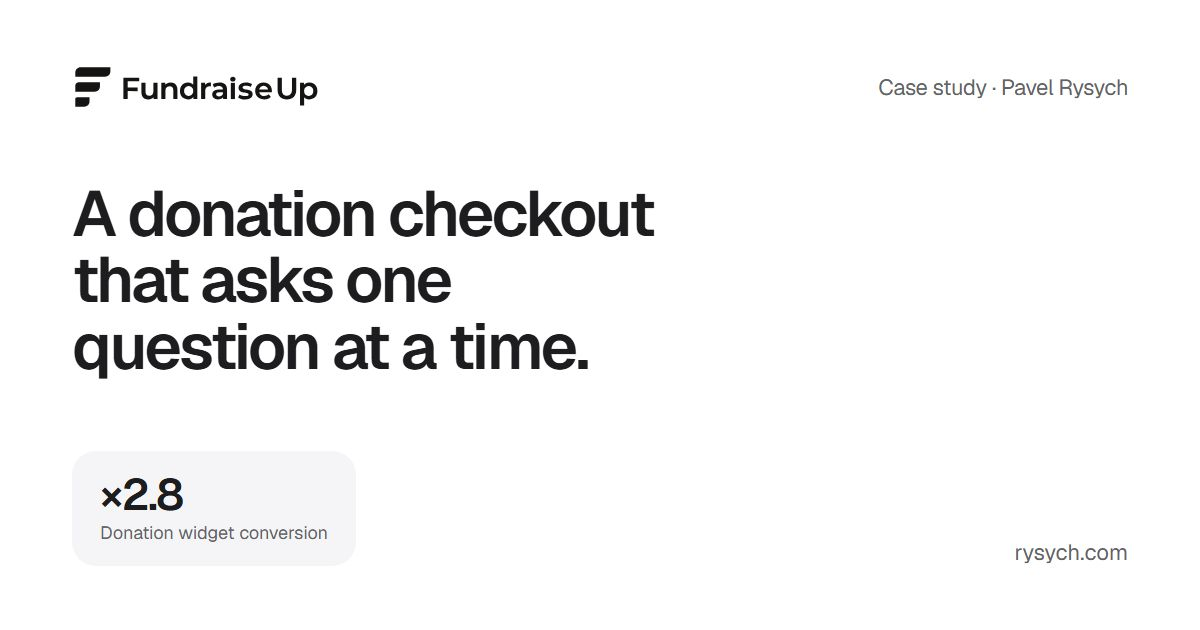
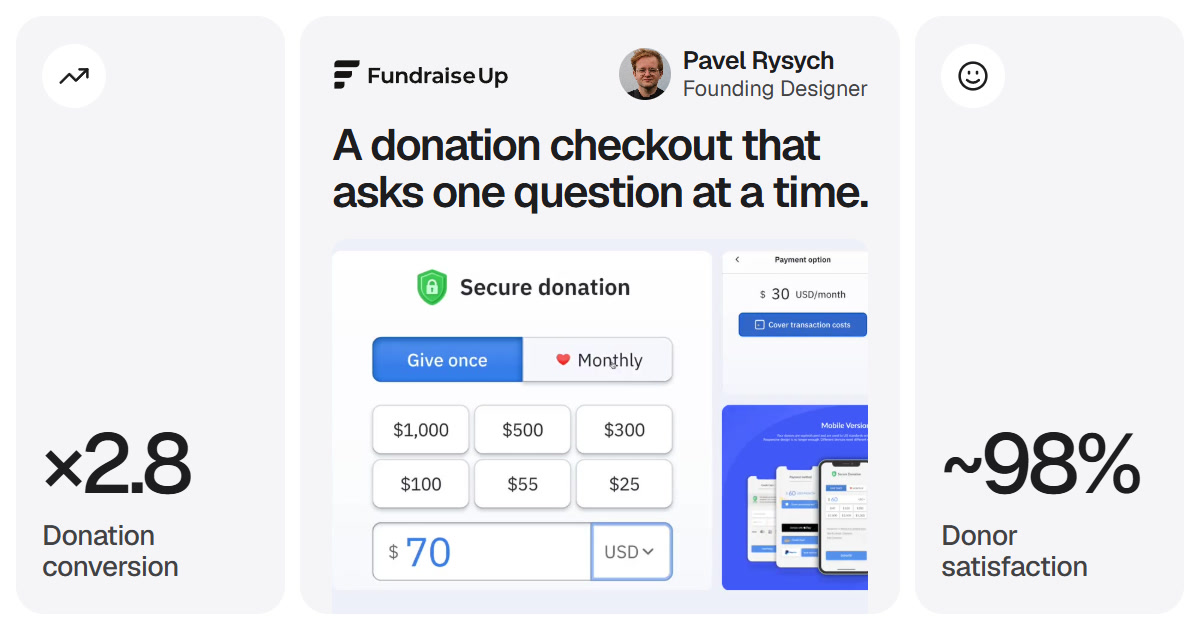
Link previews show the product, its numbers and who designed it
New 1200x630 share cards: each case puts its product screen in the
centre, two outcome figures with icons either side, the logo and
Pavel's name and role; the home card keeps the hillside portrait.
Share images move to ?v=2 so messengers fetch them again, gain
og:image:secure_url and alt texts that match the cards. The home
description carries two outcomes, dateModified and sitemap lastmod
move to today.

diff --git a/index.html b/index.html
@@ -5,7 +5,7 @@
     <meta name="viewport" content="width=device-width, initial-scale=1">
     <meta name="theme-color" content="#ffffff">
     <meta name="author" content="Pavel Rysych">
-    <meta name="description" content="Pavel Rysych, Product Design Leader and Head of Design, builds products and the design teams behind them. Case studies: Admirals, Subskim, MetaMap and more.">
+    <meta name="description" content="Pavel Rysych, Product Design Leader and Head of Design, builds products and the design teams behind them. Admirals: −67% CAC. Fundraise Up: 2.8× conversion.">
     <meta name="robots" content="index, follow, max-image-preview:large">
     <title>Pavel Rysych — Product Design Leader &amp; Head of Design</title>
     <link rel="canonical" href="https://www.rysych.com/">
@@ -23,19 +23,20 @@
     <meta property="og:locale" content="en_US">
     <meta property="og:site_name" content="Pavel Rysych">
     <meta property="og:title" content="Pavel Rysych — Product Design Leader &amp; Head of Design">
-    <meta property="og:description" content="Pavel Rysych, Product Design Leader and Head of Design, builds products and the design teams behind them. Case studies: Admirals, Subskim, MetaMap and more.">
+    <meta property="og:description" content="Pavel Rysych, Product Design Leader and Head of Design, builds products and the design teams behind them. Admirals: −67% CAC. Fundraise Up: 2.8× conversion.">
     <meta property="og:url" content="https://www.rysych.com/">
-    <meta property="og:image" content="https://www.rysych.com/assets/og/home.jpg">
+    <meta property="og:image" content="https://www.rysych.com/assets/og/home.jpg?v=2">
+    <meta property="og:image:secure_url" content="https://www.rysych.com/assets/og/home.jpg?v=2">
     <meta property="og:image:type" content="image/jpeg">
     <meta property="og:image:width" content="1200">
     <meta property="og:image:height" content="630">
-    <meta property="og:image:alt" content="Pavel Rysych, Product Design Leader: I build products and the design teams behind them.">
+    <meta property="og:image:alt" content="Pavel Rysych, Product Design Leader and Head of Design: I build products and the design teams behind them.">
     <meta name="twitter:card" content="summary_large_image">
     <meta name="twitter:title" content="Pavel Rysych — Product Design Leader &amp; Head of Design">
-    <meta name="twitter:description" content="Pavel Rysych, Product Design Leader and Head of Design, builds products and the design teams behind them. Case studies: Admirals, Subskim, MetaMap and more.">
-    <meta name="twitter:image" content="https://www.rysych.com/assets/og/home.jpg">
-    <meta name="twitter:image:alt" content="Pavel Rysych, Product Design Leader: I build products and the design teams behind them.">
-    <script type="application/ld+json">{"@context":"https://schema.org","@graph":[{"@type":"WebSite","@id":"https://www.rysych.com/#website","url":"https://www.rysych.com/","name":"Pavel Rysych","alternateName":["Rysych","rysych.com"],"description":"Portfolio of Pavel Rysych, Product Design Leader and Head of Design.","inLanguage":"en","publisher":{"@id":"https://www.rysych.com/#person"}},{"@type":"ProfilePage","@id":"https://www.rysych.com/","url":"https://www.rysych.com/","name":"Pavel Rysych — Product Design Leader & Head of Design","description":"Pavel Rysych, Product Design Leader and Head of Design, builds products and the design teams behind them. Case studies: Admirals, Subskim, MetaMap and more.","inLanguage":"en","isPartOf":{"@id":"https://www.rysych.com/#website"},"mainEntity":{"@id":"https://www.rysych.com/#person"},"primaryImageOfPage":{"@id":"https://www.rysych.com/#portrait"},"dateCreated":"2026-05-05T17:44:40+04:00","dateModified":"2026-10-04T18:00:00+04:00"},{"@type":"Person","@id":"https://www.rysych.com/#person","name":"Pavel Rysych","url":"https://www.rysych.com/","jobTitle":"Head of Design","sameAs":["https://www.linkedin.com/in/rysych/","https://www.instagram.com/pavel_rysych/","https://www.threads.com/@pavel_rysych"],"image":{"@id":"https://www.rysych.com/#portrait"},"worksFor":{"@id":"https://www.rysych.com/#org-admirals"},"description":"Product Design Leader and Head of Design. Leads product design, builds design teams and brings AI into everyday product work.","email":"mailto:rysych@gmail.com","knowsAbout":["Product design","Design leadership","Design systems","Prototyping","AI-assisted design and implementation","Product and growth","Customer journeys","Onboarding","Identity verification","Donation experience"]},{"@type":"ImageObject","@id":"https://www.rysych.com/#portrait","url":"https://www.rysych.com/assets/hero-hills-2000.jpg","contentUrl":"https://www.rysych.com/assets/hero-hills-2000.jpg","width":2000,"height":1333,"caption":"Pavel Rysych"},{"@type":"Organization","@id":"https://www.rysych.com/#org-admirals","name":"Admirals","url":"https://admiralmarkets.com/","logo":{"@type":"ImageObject","url":"https://www.rysych.com/assets/admirals-logo-dark.svg"}}]}</script>
+    <meta name="twitter:description" content="Pavel Rysych, Product Design Leader and Head of Design, builds products and the design teams behind them. Admirals: −67% CAC. Fundraise Up: 2.8× conversion.">
+    <meta name="twitter:image" content="https://www.rysych.com/assets/og/home.jpg?v=2">
+    <meta name="twitter:image:alt" content="Pavel Rysych, Product Design Leader and Head of Design: I build products and the design teams behind them.">
+    <script type="application/ld+json">{"@context":"https://schema.org","@graph":[{"@type":"WebSite","@id":"https://www.rysych.com/#website","url":"https://www.rysych.com/","name":"Pavel Rysych","alternateName":["Rysych","rysych.com"],"description":"Portfolio of Pavel Rysych, Product Design Leader and Head of Design.","inLanguage":"en","publisher":{"@id":"https://www.rysych.com/#person"}},{"@type":"ProfilePage","@id":"https://www.rysych.com/","url":"https://www.rysych.com/","name":"Pavel Rysych — Product Design Leader & Head of Design","description":"Pavel Rysych, Product Design Leader and Head of Design, builds products and the design teams behind them. Admirals: −67% CAC. Fundraise Up: 2.8× conversion.","inLanguage":"en","isPartOf":{"@id":"https://www.rysych.com/#website"},"mainEntity":{"@id":"https://www.rysych.com/#person"},"primaryImageOfPage":{"@id":"https://www.rysych.com/#portrait"},"dateCreated":"2026-05-05T17:44:40+04:00","dateModified":"2026-10-04T23:30:00+04:00"},{"@type":"Person","@id":"https://www.rysych.com/#person","name":"Pavel Rysych","url":"https://www.rysych.com/","jobTitle":"Head of Design","sameAs":["https://www.linkedin.com/in/rysych/","https://www.instagram.com/pavel_rysych/","https://www.threads.com/@pavel_rysych"],"image":{"@id":"https://www.rysych.com/#portrait"},"worksFor":{"@id":"https://www.rysych.com/#org-admirals"},"description":"Product Design Leader and Head of Design. Leads product design, builds design teams and brings AI into everyday product work.","email":"mailto:rysych@gmail.com","knowsAbout":["Product design","Design leadership","Design systems","Prototyping","AI-assisted design and implementation","Product and growth","Customer journeys","Onboarding","Identity verification","Donation experience"]},{"@type":"ImageObject","@id":"https://www.rysych.com/#portrait","url":"https://www.rysych.com/assets/hero-hills-2000.jpg","contentUrl":"https://www.rysych.com/assets/hero-hills-2000.jpg","width":2000,"height":1333,"caption":"Pavel Rysych"},{"@type":"Organization","@id":"https://www.rysych.com/#org-admirals","name":"Admirals","url":"https://admiralmarkets.com/","logo":{"@type":"ImageObject","url":"https://www.rysych.com/assets/admirals-logo-dark.svg"}}]}</script>
   </head>
   <body class="home">
     <a class="skip-link" href="#main">Skip to content</a>

diff --git a/work/mechanism/index.html b/work/mechanism/index.html
@@ -23,19 +23,20 @@
     <meta property="og:title" content="Mechanism Ventures case study: product design — Pavel Rysych">
     <meta property="og:description" content="Pavel Rysych, Head of Product Design at Mechanism Ventures (2021–2023): MVPs and onboarding for Pettable, Learner and more. +28% onboarding, −18% churn.">
     <meta property="og:url" content="https://www.rysych.com/work/mechanism/">
-    <meta property="og:image" content="https://www.rysych.com/assets/og/mechanism.jpg">
+    <meta property="og:image" content="https://www.rysych.com/assets/og/mechanism.jpg?v=2">
+    <meta property="og:image:secure_url" content="https://www.rysych.com/assets/og/mechanism.jpg?v=2">
     <meta property="og:image:type" content="image/jpeg">
     <meta property="og:image:width" content="1200">
     <meta property="og:image:height" content="630">
-    <meta property="og:image:alt" content="Mechanism Ventures case study by Pavel Rysych: four ventures, one job — make the customer’s next decision obvious.">
+    <meta property="og:image:alt" content="Mechanism Ventures case study by Pavel Rysych, Head of Product Design: making the customer’s next decision obvious. +28% onboarding conversion at Pettable, −18% user churn.">
     <meta property="article:published_time" content="2026-09-27T21:44:37+04:00">
     <meta property="article:author" content="https://www.rysych.com/">
     <meta name="twitter:card" content="summary_large_image">
     <meta name="twitter:title" content="Mechanism Ventures case study: product design — Pavel Rysych">
     <meta name="twitter:description" content="Pavel Rysych, Head of Product Design at Mechanism Ventures (2021–2023): MVPs and onboarding for Pettable, Learner and more. +28% onboarding, −18% churn.">
-    <meta name="twitter:image" content="https://www.rysych.com/assets/og/mechanism.jpg">
-    <meta name="twitter:image:alt" content="Mechanism Ventures case study by Pavel Rysych: four ventures, one job — make the customer’s next decision obvious.">
-    <script type="application/ld+json">{"@context":"https://schema.org","@graph":[{"@type":"WebPage","@id":"https://www.rysych.com/work/mechanism/","url":"https://www.rysych.com/work/mechanism/","name":"Mechanism Ventures case study: product design — Pavel Rysych","inLanguage":"en","isPartOf":{"@id":"https://www.rysych.com/#website"},"primaryImageOfPage":{"@type":"ImageObject","url":"https://www.rysych.com/assets/og/mechanism.jpg","width":1200,"height":630},"breadcrumb":{"@id":"https://www.rysych.com/work/mechanism/#breadcrumb"}},{"@type":"Article","@id":"https://www.rysych.com/work/mechanism/#article","headline":"Mechanism Ventures: making the customer’s next decision obvious","description":"Pavel Rysych, Head of Product Design at Mechanism Ventures (2021–2023): MVPs and onboarding for Pettable, Learner and more. +28% onboarding, −18% churn.","image":["https://www.rysych.com/assets/og/mechanism.jpg","https://www.rysych.com/assets/mechanism-product-sites.jpg"],"author":{"@id":"https://www.rysych.com/#person"},"publisher":{"@id":"https://www.rysych.com/#person"},"datePublished":"2026-09-27T21:44:37+04:00","dateModified":"2026-09-30T02:00:00+04:00","inLanguage":"en","mainEntityOfPage":{"@id":"https://www.rysych.com/work/mechanism/"},"isPartOf":{"@id":"https://www.rysych.com/#website"},"about":{"@id":"https://www.rysych.com/#org-mechanism"}},{"@type":"BreadcrumbList","@id":"https://www.rysych.com/work/mechanism/#breadcrumb","itemListElement":[{"@type":"ListItem","position":1,"name":"Pavel Rysych","item":"https://www.rysych.com/"},{"@type":"ListItem","position":2,"name":"Mechanism Ventures","item":"https://www.rysych.com/work/mechanism/"}]},{"@type":"Person","@id":"https://www.rysych.com/#person","name":"Pavel Rysych","url":"https://www.rysych.com/","jobTitle":"Head of Design","sameAs":["https://www.linkedin.com/in/rysych/","https://www.instagram.com/pavel_rysych/","https://www.threads.com/@pavel_rysych"]},{"@type":"WebSite","@id":"https://www.rysych.com/#website","url":"https://www.rysych.com/","name":"Pavel Rysych"},{"@type":"Organization","@id":"https://www.rysych.com/#org-mechanism","name":"Mechanism Ventures","url":"https://mechanism.com/","logo":{"@type":"ImageObject","url":"https://www.rysych.com/assets/mechanism-logo-dark.svg"}}]}</script>
+    <meta name="twitter:image" content="https://www.rysych.com/assets/og/mechanism.jpg?v=2">
+    <meta name="twitter:image:alt" content="Mechanism Ventures case study by Pavel Rysych, Head of Product Design: making the customer’s next decision obvious. +28% onboarding conversion at Pettable, −18% user churn.">
+    <script type="application/ld+json">{"@context":"https://schema.org","@graph":[{"@type":"WebPage","@id":"https://www.rysych.com/work/mechanism/","url":"https://www.rysych.com/work/mechanism/","name":"Mechanism Ventures case study: product design — Pavel Rysych","inLanguage":"en","isPartOf":{"@id":"https://www.rysych.com/#website"},"primaryImageOfPage":{"@type":"ImageObject","url":"https://www.rysych.com/assets/og/mechanism.jpg?v=2","width":1200,"height":630},"breadcrumb":{"@id":"https://www.rysych.com/work/mechanism/#breadcrumb"}},{"@type":"Article","@id":"https://www.rysych.com/work/mechanism/#article","headline":"Mechanism Ventures: making the customer’s next decision obvious","description":"Pavel Rysych, Head of Product Design at Mechanism Ventures (2021–2023): MVPs and onboarding for Pettable, Learner and more. +28% onboarding, −18% churn.","image":["https://www.rysych.com/assets/og/mechanism.jpg?v=2","https://www.rysych.com/assets/mechanism-product-sites.jpg"],"author":{"@id":"https://www.rysych.com/#person"},"publisher":{"@id":"https://www.rysych.com/#person"},"datePublished":"2026-09-27T21:44:37+04:00","dateModified":"2026-10-04T23:30:00+04:00","inLanguage":"en","mainEntityOfPage":{"@id":"https://www.rysych.com/work/mechanism/"},"isPartOf":{"@id":"https://www.rysych.com/#website"},"about":{"@id":"https://www.rysych.com/#org-mechanism"}},{"@type":"BreadcrumbList","@id":"https://www.rysych.com/work/mechanism/#breadcrumb","itemListElement":[{"@type":"ListItem","position":1,"name":"Pavel Rysych","item":"https://www.rysych.com/"},{"@type":"ListItem","position":2,"name":"Mechanism Ventures","item":"https://www.rysych.com/work/mechanism/"}]},{"@type":"Person","@id":"https://www.rysych.com/#person","name":"Pavel Rysych","url":"https://www.rysych.com/","jobTitle":"Head of Design","sameAs":["https://www.linkedin.com/in/rysych/","https://www.instagram.com/pavel_rysych/","https://www.threads.com/@pavel_rysych"]},{"@type":"WebSite","@id":"https://www.rysych.com/#website","url":"https://www.rysych.com/","name":"Pavel Rysych"},{"@type":"Organization","@id":"https://www.rysych.com/#org-mechanism","name":"Mechanism Ventures","url":"https://mechanism.com/","logo":{"@type":"ImageObject","url":"https://www.rysych.com/assets/mechanism-logo-dark.svg"}}]}</script>
   </head>
   <body class="case-page case-page--mechanism">
     <a class="skip-link" href="#main">Skip to content</a>

diff --git a/work/fundraise-up/index.html b/work/fundraise-up/index.html
@@ -24,19 +24,20 @@
     <meta property="og:title" content="Fundraise Up case study: donation checkout — Pavel Rysych">
     <meta property="og:description" content="Fundraise Up case study: as founding designer, Pavel Rysych helped replace the long donation form with a one-question-at-a-time checkout. 2.8× conversion.">
     <meta property="og:url" content="https://www.rysych.com/work/fundraise-up/">
-    <meta property="og:image" content="https://www.rysych.com/assets/og/fundraise-up.jpg">
+    <meta property="og:image" content="https://www.rysych.com/assets/og/fundraise-up.jpg?v=2">
+    <meta property="og:image:secure_url" content="https://www.rysych.com/assets/og/fundraise-up.jpg?v=2">
     <meta property="og:image:type" content="image/jpeg">
     <meta property="og:image:width" content="1200">
     <meta property="og:image:height" content="630">
-    <meta property="og:image:alt" content="Fundraise Up case study by Pavel Rysych: a donation checkout that asks one question at a time.">
+    <meta property="og:image:alt" content="Fundraise Up case study by Pavel Rysych, Founding Designer: a donation checkout that asks one question at a time. ×2.8 donation conversion, ~98% donor satisfaction.">
     <meta property="article:published_time" content="2026-09-27T14:06:50+04:00">
     <meta property="article:author" content="https://www.rysych.com/">
     <meta name="twitter:card" content="summary_large_image">
     <meta name="twitter:title" content="Fundraise Up case study: donation checkout — Pavel Rysych">
     <meta name="twitter:description" content="Fundraise Up case study: as founding designer, Pavel Rysych helped replace the long donation form with a one-question-at-a-time checkout. 2.8× conversion.">
-    <meta name="twitter:image" content="https://www.rysych.com/assets/og/fundraise-up.jpg">
-    <meta name="twitter:image:alt" content="Fundraise Up case study by Pavel Rysych: a donation checkout that asks one question at a time.">
-    <script type="application/ld+json">{"@context":"https://schema.org","@graph":[{"@type":"WebPage","@id":"https://www.rysych.com/work/fundraise-up/","url":"https://www.rysych.com/work/fundraise-up/","name":"Fundraise Up case study: donation checkout — Pavel Rysych","inLanguage":"en","isPartOf":{"@id":"https://www.rysych.com/#website"},"primaryImageOfPage":{"@type":"ImageObject","url":"https://www.rysych.com/assets/og/fundraise-up.jpg","width":1200,"height":630},"breadcrumb":{"@id":"https://www.rysych.com/work/fundraise-up/#breadcrumb"}},{"@type":"Article","@id":"https://www.rysych.com/work/fundraise-up/#article","headline":"Fundraise Up: a donation checkout that asks one question at a time","description":"Fundraise Up case study: as founding designer, Pavel Rysych helped replace the long donation form with a one-question-at-a-time checkout. 2.8× conversion.","image":["https://www.rysych.com/assets/og/fundraise-up.jpg","https://www.rysych.com/assets/fundraise-up-unicef-widget.webp"],"author":{"@id":"https://www.rysych.com/#person"},"publisher":{"@id":"https://www.rysych.com/#person"},"datePublished":"2026-09-27T14:06:50+04:00","dateModified":"2026-09-30T02:00:00+04:00","inLanguage":"en","mainEntityOfPage":{"@id":"https://www.rysych.com/work/fundraise-up/"},"isPartOf":{"@id":"https://www.rysych.com/#website"},"about":{"@id":"https://www.rysych.com/#org-fundraise-up"}},{"@type":"BreadcrumbList","@id":"https://www.rysych.com/work/fundraise-up/#breadcrumb","itemListElement":[{"@type":"ListItem","position":1,"name":"Pavel Rysych","item":"https://www.rysych.com/"},{"@type":"ListItem","position":2,"name":"Fundraise Up","item":"https://www.rysych.com/work/fundraise-up/"}]},{"@type":"Person","@id":"https://www.rysych.com/#person","name":"Pavel Rysych","url":"https://www.rysych.com/","jobTitle":"Head of Design","sameAs":["https://www.linkedin.com/in/rysych/","https://www.instagram.com/pavel_rysych/","https://www.threads.com/@pavel_rysych"]},{"@type":"WebSite","@id":"https://www.rysych.com/#website","url":"https://www.rysych.com/","name":"Pavel Rysych"},{"@type":"Organization","@id":"https://www.rysych.com/#org-fundraise-up","name":"Fundraise Up","url":"https://fundraiseup.com/","logo":{"@type":"ImageObject","url":"https://www.rysych.com/assets/fundraise-up-logo-dark.svg"}}]}</script>
+    <meta name="twitter:image" content="https://www.rysych.com/assets/og/fundraise-up.jpg?v=2">
+    <meta name="twitter:image:alt" content="Fundraise Up case study by Pavel Rysych, Founding Designer: a donation checkout that asks one question at a time. ×2.8 donation conversion, ~98% donor satisfaction.">
+    <script type="application/ld+json">{"@context":"https://schema.org","@graph":[{"@type":"WebPage","@id":"https://www.rysych.com/work/fundraise-up/","url":"https://www.rysych.com/work/fundraise-up/","name":"Fundraise Up case study: donation checkout — Pavel Rysych","inLanguage":"en","isPartOf":{"@id":"https://www.rysych.com/#website"},"primaryImageOfPage":{"@type":"ImageObject","url":"https://www.rysych.com/assets/og/fundraise-up.jpg?v=2","width":1200,"height":630},"breadcrumb":{"@id":"https://www.rysych.com/work/fundraise-up/#breadcrumb"}},{"@type":"Article","@id":"https://www.rysych.com/work/fundraise-up/#article","headline":"Fundraise Up: a donation checkout that asks one question at a time","description":"Fundraise Up case study: as founding designer, Pavel Rysych helped replace the long donation form with a one-question-at-a-time checkout. 2.8× conversion.","image":["https://www.rysych.com/assets/og/fundraise-up.jpg?v=2","https://www.rysych.com/assets/fundraise-up-unicef-widget.webp"],"author":{"@id":"https://www.rysych.com/#person"},"publisher":{"@id":"https://www.rysych.com/#person"},"datePublished":"2026-09-27T14:06:50+04:00","dateModified":"2026-10-04T23:30:00+04:00","inLanguage":"en","mainEntityOfPage":{"@id":"https://www.rysych.com/work/fundraise-up/"},"isPartOf":{"@id":"https://www.rysych.com/#website"},"about":{"@id":"https://www.rysych.com/#org-fundraise-up"}},{"@type":"BreadcrumbList","@id":"https://www.rysych.com/work/fundraise-up/#breadcrumb","itemListElement":[{"@type":"ListItem","position":1,"name":"Pavel Rysych","item":"https://www.rysych.com/"},{"@type":"ListItem","position":2,"name":"Fundraise Up","item":"https://www.rysych.com/work/fundraise-up/"}]},{"@type":"Person","@id":"https://www.rysych.com/#person","name":"Pavel Rysych","url":"https://www.rysych.com/","jobTitle":"Head of Design","sameAs":["https://www.linkedin.com/in/rysych/","https://www.instagram.com/pavel_rysych/","https://www.threads.com/@pavel_rysych"]},{"@type":"WebSite","@id":"https://www.rysych.com/#website","url":"https://www.rysych.com/","name":"Pavel Rysych"},{"@type":"Organization","@id":"https://www.rysych.com/#org-fundraise-up","name":"Fundraise Up","url":"https://fundraiseup.com/","logo":{"@type":"ImageObject","url":"https://www.rysych.com/assets/fundraise-up-logo-dark.svg"}}]}</script>
   </head>
   <body class="case-page case-page--fundraise-up">
     <a class="skip-link" href="#main">Skip to content</a>

diff --git a/work/admirals/index.html b/work/admirals/index.html
@@ -24,19 +24,20 @@
     <meta property="og:title" content="Admirals case study: design for traders — Pavel Rysych">
     <meta property="og:description" content="Admirals case study: as Head of Design, Pavel Rysych helped win experienced traders with trust, not easy-start promises. CAC −67%, first-time deposits +16%.">
     <meta property="og:url" content="https://www.rysych.com/work/admirals/">
-    <meta property="og:image" content="https://www.rysych.com/assets/og/admirals.jpg">
+    <meta property="og:image" content="https://www.rysych.com/assets/og/admirals.jpg?v=2">
+    <meta property="og:image:secure_url" content="https://www.rysych.com/assets/og/admirals.jpg?v=2">
     <meta property="og:image:type" content="image/jpeg">
     <meta property="og:image:width" content="1200">
     <meta property="og:image:height" content="630">
-    <meta property="og:image:alt" content="Admirals case study by Pavel Rysych: winning experienced traders with credibility, not easy-start promises.">
+    <meta property="og:image:alt" content="Admirals case study by Pavel Rysych, Head of Design: winning experienced traders with credibility. −67% customer acquisition cost, +€400k monthly revenue.">
     <meta property="article:published_time" content="2026-09-27T14:06:50+04:00">
     <meta property="article:author" content="https://www.rysych.com/">
     <meta name="twitter:card" content="summary_large_image">
     <meta name="twitter:title" content="Admirals case study: design for traders — Pavel Rysych">
     <meta name="twitter:description" content="Admirals case study: as Head of Design, Pavel Rysych helped win experienced traders with trust, not easy-start promises. CAC −67%, first-time deposits +16%.">
-    <meta name="twitter:image" content="https://www.rysych.com/assets/og/admirals.jpg">
-    <meta name="twitter:image:alt" content="Admirals case study by Pavel Rysych: winning experienced traders with credibility, not easy-start promises.">
-    <script type="application/ld+json">{"@context":"https://schema.org","@graph":[{"@type":"WebPage","@id":"https://www.rysych.com/work/admirals/","url":"https://www.rysych.com/work/admirals/","name":"Admirals case study: design for traders — Pavel Rysych","inLanguage":"en","isPartOf":{"@id":"https://www.rysych.com/#website"},"primaryImageOfPage":{"@type":"ImageObject","url":"https://www.rysych.com/assets/og/admirals.jpg","width":1200,"height":630},"breadcrumb":{"@id":"https://www.rysych.com/work/admirals/#breadcrumb"}},{"@type":"Article","@id":"https://www.rysych.com/work/admirals/#article","headline":"Admirals: winning experienced traders with credibility","description":"Admirals case study: as Head of Design, Pavel Rysych helped win experienced traders with trust, not easy-start promises. CAC −67%, first-time deposits +16%.","image":["https://www.rysych.com/assets/og/admirals.jpg","https://www.rysych.com/assets/admirals-website-film-v3-poster.jpg"],"author":{"@id":"https://www.rysych.com/#person"},"publisher":{"@id":"https://www.rysych.com/#person"},"datePublished":"2026-09-27T14:06:50+04:00","dateModified":"2026-09-30T02:00:00+04:00","inLanguage":"en","mainEntityOfPage":{"@id":"https://www.rysych.com/work/admirals/"},"isPartOf":{"@id":"https://www.rysych.com/#website"},"about":{"@id":"https://www.rysych.com/#org-admirals"}},{"@type":"BreadcrumbList","@id":"https://www.rysych.com/work/admirals/#breadcrumb","itemListElement":[{"@type":"ListItem","position":1,"name":"Pavel Rysych","item":"https://www.rysych.com/"},{"@type":"ListItem","position":2,"name":"Admirals","item":"https://www.rysych.com/work/admirals/"}]},{"@type":"Person","@id":"https://www.rysych.com/#person","name":"Pavel Rysych","url":"https://www.rysych.com/","jobTitle":"Head of Design","sameAs":["https://www.linkedin.com/in/rysych/","https://www.instagram.com/pavel_rysych/","https://www.threads.com/@pavel_rysych"]},{"@type":"WebSite","@id":"https://www.rysych.com/#website","url":"https://www.rysych.com/","name":"Pavel Rysych"},{"@type":"Organization","@id":"https://www.rysych.com/#org-admirals","name":"Admirals","url":"https://admiralmarkets.com/","logo":{"@type":"ImageObject","url":"https://www.rysych.com/assets/admirals-logo-dark.svg"}}]}</script>
+    <meta name="twitter:image" content="https://www.rysych.com/assets/og/admirals.jpg?v=2">
+    <meta name="twitter:image:alt" content="Admirals case study by Pavel Rysych, Head of Design: winning experienced traders with credibility. −67% customer acquisition cost, +€400k monthly revenue.">
+    <script type="application/ld+json">{"@context":"https://schema.org","@graph":[{"@type":"WebPage","@id":"https://www.rysych.com/work/admirals/","url":"https://www.rysych.com/work/admirals/","name":"Admirals case study: design for traders — Pavel Rysych","inLanguage":"en","isPartOf":{"@id":"https://www.rysych.com/#website"},"primaryImageOfPage":{"@type":"ImageObject","url":"https://www.rysych.com/assets/og/admirals.jpg?v=2","width":1200,"height":630},"breadcrumb":{"@id":"https://www.rysych.com/work/admirals/#breadcrumb"}},{"@type":"Article","@id":"https://www.rysych.com/work/admirals/#article","headline":"Admirals: winning experienced traders with credibility","description":"Admirals case study: as Head of Design, Pavel Rysych helped win experienced traders with trust, not easy-start promises. CAC −67%, first-time deposits +16%.","image":["https://www.rysych.com/assets/og/admirals.jpg?v=2","https://www.rysych.com/assets/admirals-website-film-v3-poster.jpg"],"author":{"@id":"https://www.rysych.com/#person"},"publisher":{"@id":"https://www.rysych.com/#person"},"datePublished":"2026-09-27T14:06:50+04:00","dateModified":"2026-10-04T23:30:00+04:00","inLanguage":"en","mainEntityOfPage":{"@id":"https://www.rysych.com/work/admirals/"},"isPartOf":{"@id":"https://www.rysych.com/#website"},"about":{"@id":"https://www.rysych.com/#org-admirals"}},{"@type":"BreadcrumbList","@id":"https://www.rysych.com/work/admirals/#breadcrumb","itemListElement":[{"@type":"ListItem","position":1,"name":"Pavel Rysych","item":"https://www.rysych.com/"},{"@type":"ListItem","position":2,"name":"Admirals","item":"https://www.rysych.com/work/admirals/"}]},{"@type":"Person","@id":"https://www.rysych.com/#person","name":"Pavel Rysych","url":"https://www.rysych.com/","jobTitle":"Head of Design","sameAs":["https://www.linkedin.com/in/rysych/","https://www.instagram.com/pavel_rysych/","https://www.threads.com/@pavel_rysych"]},{"@type":"WebSite","@id":"https://www.rysych.com/#website","url":"https://www.rysych.com/","name":"Pavel Rysych"},{"@type":"Organization","@id":"https://www.rysych.com/#org-admirals","name":"Admirals","url":"https://admiralmarkets.com/","logo":{"@type":"ImageObject","url":"https://www.rysych.com/assets/admirals-logo-dark.svg"}}]}</script>
   </head>
   <body class="case-page case-page--admirals">
     <a class="skip-link" href="#main">Skip to content</a>

diff --git a/work/subskim/index.html b/work/subskim/index.html
@@ -23,19 +23,20 @@
     <meta property="og:title" content="Subskim case study: designed and built with AI — Pavel Rysych">
     <meta property="og:description" content="Subskim case study: Pavel Rysych came up with, designed and built a subscription app solo with AI — screenshot import, a renewal calendar and a monthly review.">
     <meta property="og:url" content="https://www.rysych.com/work/subskim/">
-    <meta property="og:image" content="https://www.rysych.com/assets/og/subskim.jpg">
+    <meta property="og:image" content="https://www.rysych.com/assets/og/subskim.jpg?v=2">
+    <meta property="og:image:secure_url" content="https://www.rysych.com/assets/og/subskim.jpg?v=2">
     <meta property="og:image:type" content="image/jpeg">
     <meta property="og:image:width" content="1200">
     <meta property="og:image:height" content="630">
-    <meta property="og:image:alt" content="Subskim case study by Pavel Rysych: every recurring charge visible before it renews.">
+    <meta property="og:image:alt" content="Subskim case study by Pavel Rysych: every recurring charge visible before it renews. Idea, design and build solo with AI; live at subskim.com.">
     <meta property="article:published_time" content="2026-09-27T14:06:50+04:00">
     <meta property="article:author" content="https://www.rysych.com/">
     <meta name="twitter:card" content="summary_large_image">
     <meta name="twitter:title" content="Subskim case study: designed and built with AI — Pavel Rysych">
     <meta name="twitter:description" content="Subskim case study: Pavel Rysych came up with, designed and built a subscription app solo with AI — screenshot import, a renewal calendar and a monthly review.">
-    <meta name="twitter:image" content="https://www.rysych.com/assets/og/subskim.jpg">
-    <meta name="twitter:image:alt" content="Subskim case study by Pavel Rysych: every recurring charge visible before it renews.">
-    <script type="application/ld+json">{"@context":"https://schema.org","@graph":[{"@type":"WebPage","@id":"https://www.rysych.com/work/subskim/","url":"https://www.rysych.com/work/subskim/","name":"Subskim case study: designed and built with AI — Pavel Rysych","inLanguage":"en","isPartOf":{"@id":"https://www.rysych.com/#website"},"primaryImageOfPage":{"@type":"ImageObject","url":"https://www.rysych.com/assets/og/subskim.jpg","width":1200,"height":630},"breadcrumb":{"@id":"https://www.rysych.com/work/subskim/#breadcrumb"}},{"@type":"Article","@id":"https://www.rysych.com/work/subskim/#article","headline":"Subskim: every recurring charge visible before it renews","description":"Subskim case study: Pavel Rysych came up with, designed and built a subscription app solo with AI — screenshot import, a renewal calendar and a monthly review.","image":["https://www.rysych.com/assets/og/subskim.jpg","https://www.rysych.com/assets/subskim-calendar-v1.png"],"author":{"@id":"https://www.rysych.com/#person"},"publisher":{"@id":"https://www.rysych.com/#person"},"datePublished":"2026-09-27T14:06:50+04:00","dateModified":"2026-09-30T02:00:00+04:00","inLanguage":"en","mainEntityOfPage":{"@id":"https://www.rysych.com/work/subskim/"},"isPartOf":{"@id":"https://www.rysych.com/#website"},"about":{"@id":"https://subskim.com/#web-application"}},{"@type":"BreadcrumbList","@id":"https://www.rysych.com/work/subskim/#breadcrumb","itemListElement":[{"@type":"ListItem","position":1,"name":"Pavel Rysych","item":"https://www.rysych.com/"},{"@type":"ListItem","position":2,"name":"Subskim","item":"https://www.rysych.com/work/subskim/"}]},{"@type":"Person","@id":"https://www.rysych.com/#person","name":"Pavel Rysych","url":"https://www.rysych.com/","jobTitle":"Head of Design","sameAs":["https://www.linkedin.com/in/rysych/","https://www.instagram.com/pavel_rysych/","https://www.threads.com/@pavel_rysych"]},{"@type":"WebSite","@id":"https://www.rysych.com/#website","url":"https://www.rysych.com/","name":"Pavel Rysych"},{"@type":"WebApplication","@id":"https://subskim.com/#web-application","name":"Subskim","url":"https://subskim.com/","applicationCategory":"FinanceApplication","operatingSystem":"Web","creator":{"@id":"https://www.rysych.com/#person"}}]}</script>
+    <meta name="twitter:image" content="https://www.rysych.com/assets/og/subskim.jpg?v=2">
+    <meta name="twitter:image:alt" content="Subskim case study by Pavel Rysych: every recurring charge visible before it renews. Idea, design and build solo with AI; live at subskim.com.">
+    <script type="application/ld+json">{"@context":"https://schema.org","@graph":[{"@type":"WebPage","@id":"https://www.rysych.com/work/subskim/","url":"https://www.rysych.com/work/subskim/","name":"Subskim case study: designed and built with AI — Pavel Rysych","inLanguage":"en","isPartOf":{"@id":"https://www.rysych.com/#website"},"primaryImageOfPage":{"@type":"ImageObject","url":"https://www.rysych.com/assets/og/subskim.jpg?v=2","width":1200,"height":630},"breadcrumb":{"@id":"https://www.rysych.com/work/subskim/#breadcrumb"}},{"@type":"Article","@id":"https://www.rysych.com/work/subskim/#article","headline":"Subskim: every recurring charge visible before it renews","description":"Subskim case study: Pavel Rysych came up with, designed and built a subscription app solo with AI — screenshot import, a renewal calendar and a monthly review.","image":["https://www.rysych.com/assets/og/subskim.jpg?v=2","https://www.rysych.com/assets/subskim-calendar-v1.png"],"author":{"@id":"https://www.rysych.com/#person"},"publisher":{"@id":"https://www.rysych.com/#person"},"datePublished":"2026-09-27T14:06:50+04:00","dateModified":"2026-10-04T23:30:00+04:00","inLanguage":"en","mainEntityOfPage":{"@id":"https://www.rysych.com/work/subskim/"},"isPartOf":{"@id":"https://www.rysych.com/#website"},"about":{"@id":"https://subskim.com/#web-application"}},{"@type":"BreadcrumbList","@id":"https://www.rysych.com/work/subskim/#breadcrumb","itemListElement":[{"@type":"ListItem","position":1,"name":"Pavel Rysych","item":"https://www.rysych.com/"},{"@type":"ListItem","position":2,"name":"Subskim","item":"https://www.rysych.com/work/subskim/"}]},{"@type":"Person","@id":"https://www.rysych.com/#person","name":"Pavel Rysych","url":"https://www.rysych.com/","jobTitle":"Head of Design","sameAs":["https://www.linkedin.com/in/rysych/","https://www.instagram.com/pavel_rysych/","https://www.threads.com/@pavel_rysych"]},{"@type":"WebSite","@id":"https://www.rysych.com/#website","url":"https://www.rysych.com/","name":"Pavel Rysych"},{"@type":"WebApplication","@id":"https://subskim.com/#web-application","name":"Subskim","url":"https://subskim.com/","applicationCategory":"FinanceApplication","operatingSystem":"Web","creator":{"@id":"https://www.rysych.com/#person"}}]}</script>
   </head>
   <body class="case-page case-page--subskim">
     <a class="skip-link" href="#main">Skip to content</a>

diff --git a/work/metamap/index.html b/work/metamap/index.html
@@ -24,19 +24,20 @@
     <meta property="og:title" content="MetaMap case study: identity verification — Pavel Rysych">
     <meta property="og:description" content="MetaMap case study: as Head of Design, Pavel Rysych led five designers and kept an identity verification platform clear as it grew from 2 checks to 15+.">
     <meta property="og:url" content="https://www.rysych.com/work/metamap/">
-    <meta property="og:image" content="https://www.rysych.com/assets/og/metamap.jpg">
+    <meta property="og:image" content="https://www.rysych.com/assets/og/metamap.jpg?v=2">
+    <meta property="og:image:secure_url" content="https://www.rysych.com/assets/og/metamap.jpg?v=2">
     <meta property="og:image:type" content="image/jpeg">
     <meta property="og:image:width" content="1200">
     <meta property="og:image:height" content="630">
-    <meta property="og:image:alt" content="MetaMap case study by Pavel Rysych: keeping identity verification understandable as it grew.">
+    <meta property="og:image:alt" content="MetaMap case study by Pavel Rysych, Head of Design: keeping verification understandable as it grew. Verification checks from 2 to 15+, a 5 + 12 design and delivery team.">
     <meta property="article:published_time" content="2026-09-27T14:06:50+04:00">
     <meta property="article:author" content="https://www.rysych.com/">
     <meta name="twitter:card" content="summary_large_image">
     <meta name="twitter:title" content="MetaMap case study: identity verification — Pavel Rysych">
     <meta name="twitter:description" content="MetaMap case study: as Head of Design, Pavel Rysych led five designers and kept an identity verification platform clear as it grew from 2 checks to 15+.">
-    <meta name="twitter:image" content="https://www.rysych.com/assets/og/metamap.jpg">
-    <meta name="twitter:image:alt" content="MetaMap case study by Pavel Rysych: keeping identity verification understandable as it grew.">
-    <script type="application/ld+json">{"@context":"https://schema.org","@graph":[{"@type":"WebPage","@id":"https://www.rysych.com/work/metamap/","url":"https://www.rysych.com/work/metamap/","name":"MetaMap case study: identity verification — Pavel Rysych","inLanguage":"en","isPartOf":{"@id":"https://www.rysych.com/#website"},"primaryImageOfPage":{"@type":"ImageObject","url":"https://www.rysych.com/assets/og/metamap.jpg","width":1200,"height":630},"breadcrumb":{"@id":"https://www.rysych.com/work/metamap/#breadcrumb"}},{"@type":"Article","@id":"https://www.rysych.com/work/metamap/#article","headline":"MetaMap: keeping verification understandable from 2 checks to 15+","description":"MetaMap case study: as Head of Design, Pavel Rysych led five designers and kept an identity verification platform clear as it grew from 2 checks to 15+.","image":["https://www.rysych.com/assets/og/metamap.jpg","https://www.rysych.com/assets/metamap-mati-poster.jpg"],"author":{"@id":"https://www.rysych.com/#person"},"publisher":{"@id":"https://www.rysych.com/#person"},"datePublished":"2026-09-27T14:06:50+04:00","dateModified":"2026-09-30T02:00:00+04:00","inLanguage":"en","mainEntityOfPage":{"@id":"https://www.rysych.com/work/metamap/"},"isPartOf":{"@id":"https://www.rysych.com/#website"},"about":{"@id":"https://www.rysych.com/#org-metamap"}},{"@type":"BreadcrumbList","@id":"https://www.rysych.com/work/metamap/#breadcrumb","itemListElement":[{"@type":"ListItem","position":1,"name":"Pavel Rysych","item":"https://www.rysych.com/"},{"@type":"ListItem","position":2,"name":"MetaMap","item":"https://www.rysych.com/work/metamap/"}]},{"@type":"Person","@id":"https://www.rysych.com/#person","name":"Pavel Rysych","url":"https://www.rysych.com/","jobTitle":"Head of Design","sameAs":["https://www.linkedin.com/in/rysych/","https://www.instagram.com/pavel_rysych/","https://www.threads.com/@pavel_rysych"]},{"@type":"WebSite","@id":"https://www.rysych.com/#website","url":"https://www.rysych.com/","name":"Pavel Rysych"},{"@type":"Organization","@id":"https://www.rysych.com/#org-metamap","name":"MetaMap","url":"https://www.metamap.com/","logo":{"@type":"ImageObject","url":"https://www.rysych.com/assets/metamap-logo-dark.svg"}}]}</script>
+    <meta name="twitter:image" content="https://www.rysych.com/assets/og/metamap.jpg?v=2">
+    <meta name="twitter:image:alt" content="MetaMap case study by Pavel Rysych, Head of Design: keeping verification understandable as it grew. Verification checks from 2 to 15+, a 5 + 12 design and delivery team.">
+    <script type="application/ld+json">{"@context":"https://schema.org","@graph":[{"@type":"WebPage","@id":"https://www.rysych.com/work/metamap/","url":"https://www.rysych.com/work/metamap/","name":"MetaMap case study: identity verification — Pavel Rysych","inLanguage":"en","isPartOf":{"@id":"https://www.rysych.com/#website"},"primaryImageOfPage":{"@type":"ImageObject","url":"https://www.rysych.com/assets/og/metamap.jpg?v=2","width":1200,"height":630},"breadcrumb":{"@id":"https://www.rysych.com/work/metamap/#breadcrumb"}},{"@type":"Article","@id":"https://www.rysych.com/work/metamap/#article","headline":"MetaMap: keeping verification understandable from 2 checks to 15+","description":"MetaMap case study: as Head of Design, Pavel Rysych led five designers and kept an identity verification platform clear as it grew from 2 checks to 15+.","image":["https://www.rysych.com/assets/og/metamap.jpg?v=2","https://www.rysych.com/assets/metamap-mati-poster.jpg"],"author":{"@id":"https://www.rysych.com/#person"},"publisher":{"@id":"https://www.rysych.com/#person"},"datePublished":"2026-09-27T14:06:50+04:00","dateModified":"2026-10-04T23:30:00+04:00","inLanguage":"en","mainEntityOfPage":{"@id":"https://www.rysych.com/work/metamap/"},"isPartOf":{"@id":"https://www.rysych.com/#website"},"about":{"@id":"https://www.rysych.com/#org-metamap"}},{"@type":"BreadcrumbList","@id":"https://www.rysych.com/work/metamap/#breadcrumb","itemListElement":[{"@type":"ListItem","position":1,"name":"Pavel Rysych","item":"https://www.rysych.com/"},{"@type":"ListItem","position":2,"name":"MetaMap","item":"https://www.rysych.com/work/metamap/"}]},{"@type":"Person","@id":"https://www.rysych.com/#person","name":"Pavel Rysych","url":"https://www.rysych.com/","jobTitle":"Head of Design","sameAs":["https://www.linkedin.com/in/rysych/","https://www.instagram.com/pavel_rysych/","https://www.threads.com/@pavel_rysych"]},{"@type":"WebSite","@id":"https://www.rysych.com/#website","url":"https://www.rysych.com/","name":"Pavel Rysych"},{"@type":"Organization","@id":"https://www.rysych.com/#org-metamap","name":"MetaMap","url":"https://www.metamap.com/","logo":{"@type":"ImageObject","url":"https://www.rysych.com/assets/metamap-logo-dark.svg"}}]}</script>
   </head>
   <body class="case-page case-page--metamap">
     <a class="skip-link" href="#main">Skip to content</a>
